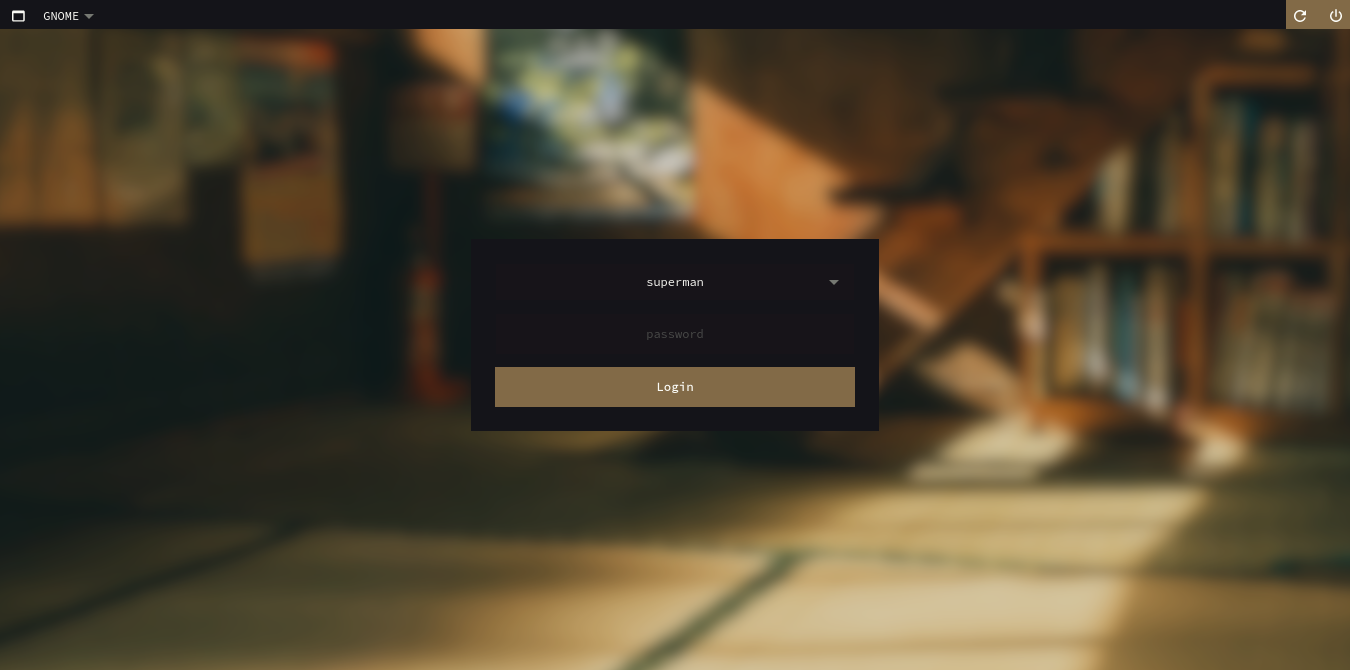
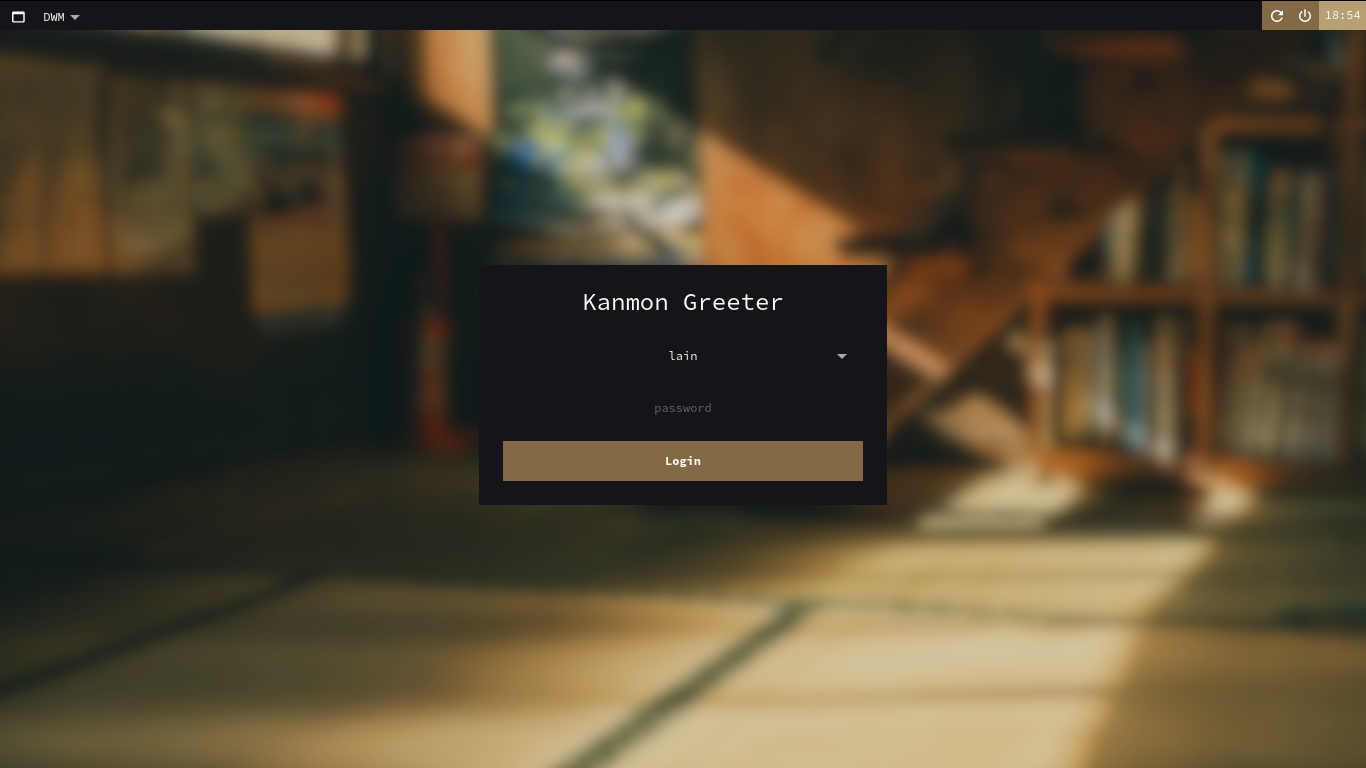
Updated readme

diff --git a/README.md b/README.md
@@ -10,6 +10,8 @@ This theme is designed to be simple, so it provides the bare minimum to be usabl
 * Selection of session (fetching the list of installed desktop environments).
 * Session cache for each user, remembering the last session used.
 * Shutdown and restart buttons.
+* Displaying hostname
+* Displaying current time
 
 ## Installation instructions
 
